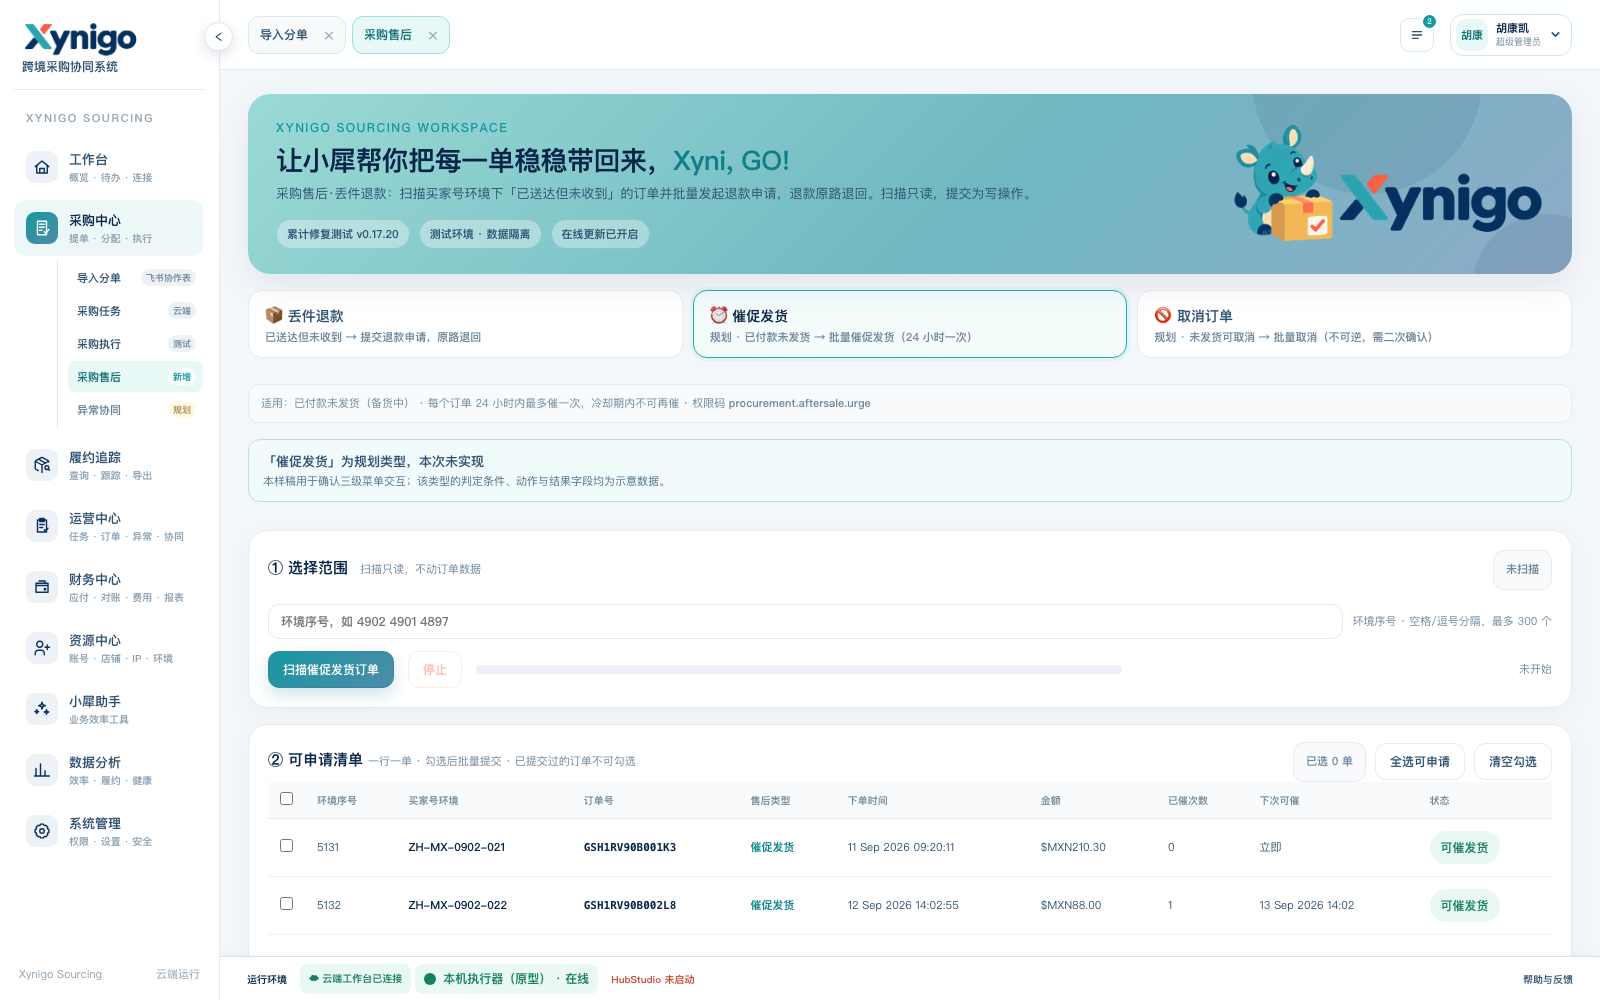
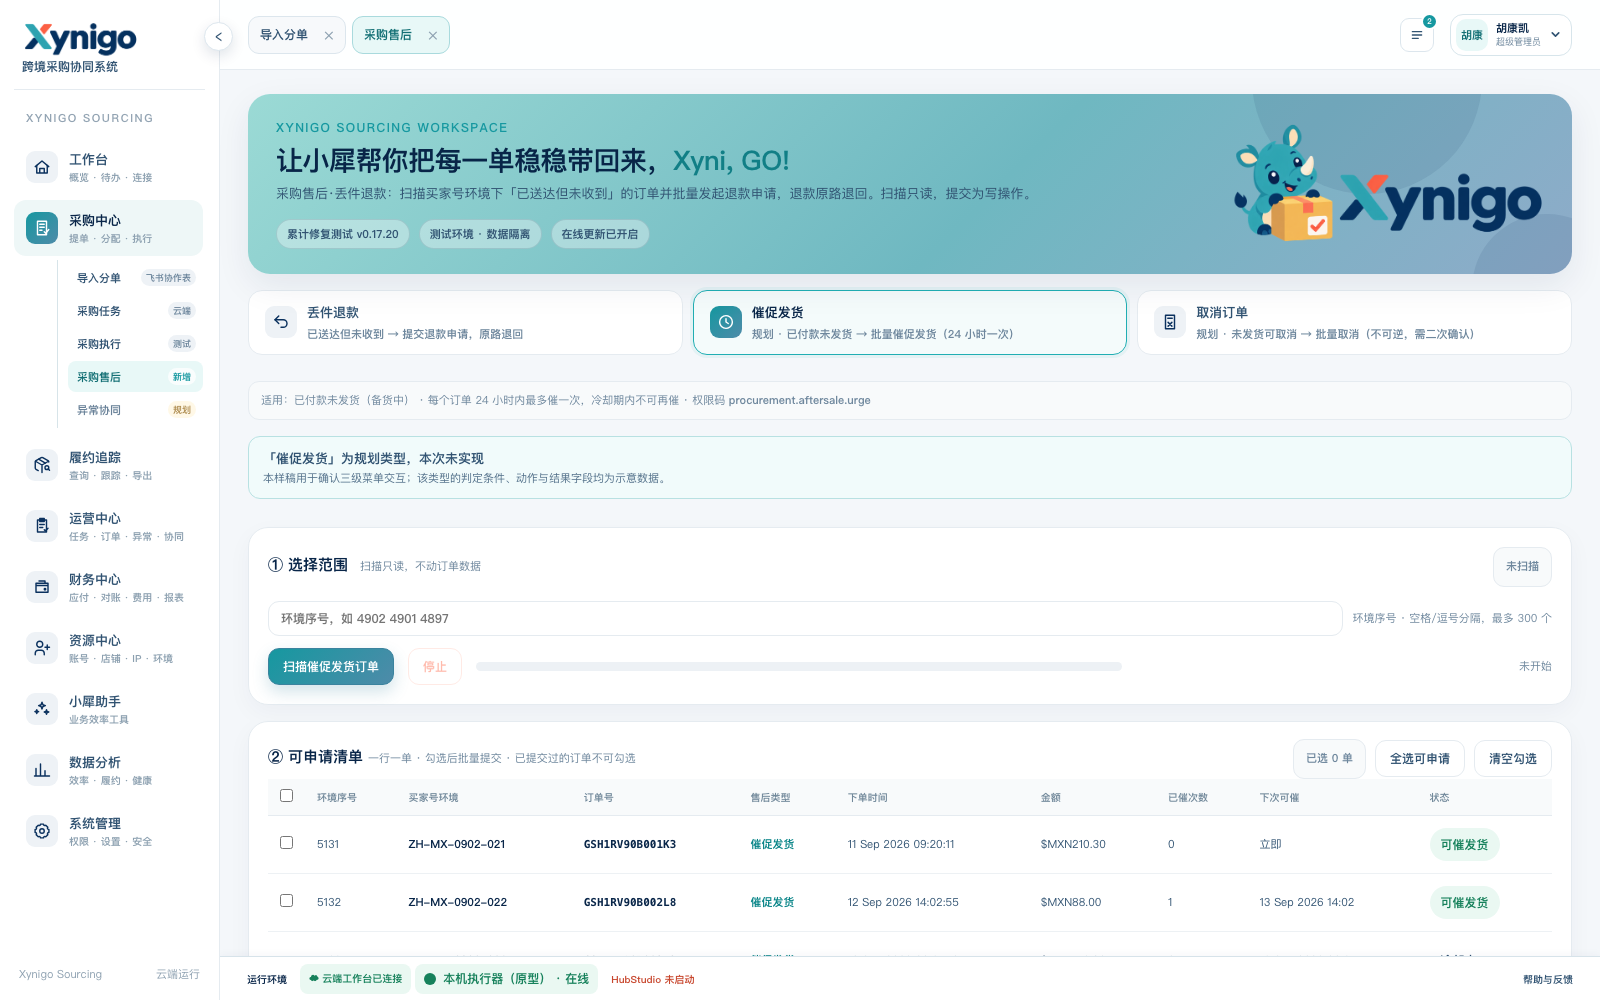
docs: 类型卡图标改用一级菜单同款线性图标
Jeff 反馈 emoji 图标太写实、与页面 UI 突兀。三个类型的图标改为：
- 丢件退款：退回箭头（↩）
- 催促发货：时钟（催＝赶时间）
- 取消订单：单据 + ×（与「采购中心」的单据 + ✓ 成对）

实现上不再自造图标样式，而是直接复用侧栏的 .nav-icon / .nav-text：32×32 圆角砖、
18px 描边 SVG（stroke 1.9、圆头圆角），选中态图标砖换渐变底、图标转白——与一级
菜单完全同规格。补丁只加两条作用域样式（卡片内一行布局 + 选中态图标砖渐变），
其余继承既有 class，不引入新配色。

样稿实测：三卡图标与文字对齐、选中态正确、切换后表格与按钮文案同步，控制台零报错。

diff --git a/docs/prototypes/20260915-procurement-after-sale-v2-multitype.html b/docs/prototypes/20260915-procurement-after-sale-v2-multitype.html
@@ -15772,7 +15772,9 @@ initializeAuth();
 (function () {
   const TYPES = [
     {
-      id: 'refund', label: '丢件退款', icon: '📦', state: 'done',
+      id: 'refund', label: '丢件退款', state: 'done',
+      // 图标与一级菜单同款：24×24 线性描边（退回箭头）
+      svg: '<path d="M9 14 4 9l5-5"/><path d="M4 9h11a5 5 0 0 1 0 10h-3"/>',
       desc: '已送达但未收到 → 提交退款申请，原路退回',
       perm: 'procurement.aftersale.refund',
       rule: '已送达但未收到',
@@ -15800,7 +15802,8 @@ initializeAuth();
       ],
     },
     {
-      id: 'urge', label: '催促发货', icon: '⏰', state: 'plan',
+      id: 'urge', label: '催促发货', state: 'plan',
+      svg: '<circle cx="12" cy="12" r="8.5"/><path d="M12 7.5V12l3 2"/>',
       desc: '已付款未发货 → 批量催促发货（24 小时一次）',
       perm: 'procurement.aftersale.urge',
       rule: '已付款未发货（备货中）',
@@ -15828,7 +15831,9 @@ initializeAuth();
       ],
     },
     {
-      id: 'cancel', label: '取消订单', icon: '🚫', state: 'plan',
+      id: 'cancel', label: '取消订单', state: 'plan',
+      // 与「采购中心」的单据图标成对：那边是单据+勾，这边是单据+叉
+      svg: '<path d="M6 3h12v18H6zM9 7h6"/><path d="m9.5 12.5 5 5m0-5-5 5"/>',
       desc: '未发货可取消 → 批量取消（不可逆，需二次确认）',
       perm: 'procurement.aftersale.cancel',
       rule: '未发货且平台允许取消',
@@ -15856,6 +15861,12 @@ initializeAuth();
       ],
     },
   ];
+
+  // 只补两条：卡片内一行布局 + 选中态图标砖跟着变渐变（与 .module-tab.active 一致）
+  const style = document.createElement('style');
+  style.textContent = '#asTypeBar .as-mode-inner{display:flex;align-items:center;gap:10px}'
+    + '#asTypeBar .mode-tab.active .nav-icon{color:#fff;background:var(--action-gradient)}';
+  document.head.appendChild(style);
 
   const esc = window.esc || (s => String(s == null ? '' : s)
     .replace(/[&<>"]/g, c => ({ '&': '&amp;', '<': '&lt;', '>': '&gt;', '"': '&quot;' }[c])));
@@ -15885,8 +15896,12 @@ initializeAuth();
     if (legacyRow) legacyRow.style.display = 'none';
     bar.innerHTML = TYPES.map(t =>
       `<button class="mode-tab${t.id === current ? ' active' : ''}" data-as-type="${t.id}" type="button">`
-      + `${t.icon} ${esc(t.label)}`
-      + `<small>${t.state === 'plan' ? '规划 · ' : ''}${esc(t.desc)}</small></button>`).join('');
+      + '<span class="as-mode-inner">'
+      + `<span class="nav-icon" aria-hidden="true"><svg viewBox="0 0 24 24">${t.svg}</svg></span>`
+      + '<span class="nav-text">'
+      + `<b>${esc(t.label)}</b>`
+      + `<small>${t.state === 'plan' ? '规划 · ' : ''}${esc(t.desc)}</small>`
+      + '</span></span></button>').join('');
     bar.querySelectorAll('[data-as-type]').forEach(btn => {
       btn.onclick = () => switchType(btn.dataset.asType);
     });

diff --git a/docs/prototypes/build_procurement_after_sale_multitype_prototype.py b/docs/prototypes/build_procurement_after_sale_multitype_prototype.py
@@ -45,7 +45,9 @@ DESIGN_PATCH = r'''
 (function () {
   const TYPES = [
     {
-      id: 'refund', label: '丢件退款', icon: '📦', state: 'done',
+      id: 'refund', label: '丢件退款', state: 'done',
+      // 图标与一级菜单同款：24×24 线性描边（退回箭头）
+      svg: '<path d="M9 14 4 9l5-5"/><path d="M4 9h11a5 5 0 0 1 0 10h-3"/>',
       desc: '已送达但未收到 → 提交退款申请，原路退回',
       perm: 'procurement.aftersale.refund',
       rule: '已送达但未收到',
@@ -73,7 +75,8 @@ DESIGN_PATCH = r'''
       ],
     },
     {
-      id: 'urge', label: '催促发货', icon: '⏰', state: 'plan',
+      id: 'urge', label: '催促发货', state: 'plan',
+      svg: '<circle cx="12" cy="12" r="8.5"/><path d="M12 7.5V12l3 2"/>',
       desc: '已付款未发货 → 批量催促发货（24 小时一次）',
       perm: 'procurement.aftersale.urge',
       rule: '已付款未发货（备货中）',
@@ -101,7 +104,9 @@ DESIGN_PATCH = r'''
       ],
     },
     {
-      id: 'cancel', label: '取消订单', icon: '🚫', state: 'plan',
+      id: 'cancel', label: '取消订单', state: 'plan',
+      // 与「采购中心」的单据图标成对：那边是单据+勾，这边是单据+叉
+      svg: '<path d="M6 3h12v18H6zM9 7h6"/><path d="m9.5 12.5 5 5m0-5-5 5"/>',
       desc: '未发货可取消 → 批量取消（不可逆，需二次确认）',
       perm: 'procurement.aftersale.cancel',
       rule: '未发货且平台允许取消',
@@ -129,6 +134,12 @@ DESIGN_PATCH = r'''
       ],
     },
   ];
+
+  // 只补两条：卡片内一行布局 + 选中态图标砖跟着变渐变（与 .module-tab.active 一致）
+  const style = document.createElement('style');
+  style.textContent = '#asTypeBar .as-mode-inner{display:flex;align-items:center;gap:10px}'
+    + '#asTypeBar .mode-tab.active .nav-icon{color:#fff;background:var(--action-gradient)}';
+  document.head.appendChild(style);
 
   const esc = window.esc || (s => String(s == null ? '' : s)
     .replace(/[&<>"]/g, c => ({ '&': '&amp;', '<': '&lt;', '>': '&gt;', '"': '&quot;' }[c])));
@@ -158,8 +169,12 @@ DESIGN_PATCH = r'''
     if (legacyRow) legacyRow.style.display = 'none';
     bar.innerHTML = TYPES.map(t =>
       `<button class="mode-tab${t.id === current ? ' active' : ''}" data-as-type="${t.id}" type="button">`
-      + `${t.icon} ${esc(t.label)}`
-      + `<small>${t.state === 'plan' ? '规划 · ' : ''}${esc(t.desc)}</small></button>`).join('');
+      + '<span class="as-mode-inner">'
+      + `<span class="nav-icon" aria-hidden="true"><svg viewBox="0 0 24 24">${t.svg}</svg></span>`
+      + '<span class="nav-text">'
+      + `<b>${esc(t.label)}</b>`
+      + `<small>${t.state === 'plan' ? '规划 · ' : ''}${esc(t.desc)}</small>`
+      + '</span></span></button>').join('');
     bar.querySelectorAll('[data-as-type]').forEach(btn => {
       btn.onclick = () => switchType(btn.dataset.asType);
     });

diff --git a/docs/prototypes/20260915-procurement-after-sale-v2-multitype.md b/docs/prototypes/20260915-procurement-after-sale-v2-multitype.md
@@ -28,10 +28,11 @@ python3 -m http.server 8899 --directory docs/prototypes
 | 结果字段 | 退款单号、退款路径 | 催发时间、下次可催 | 取消结果、退款金额 |
 | 幂等 | 平台天然幂等 | **要自己记「今天催过没有」** | 平台天然幂等 |
 | 风险 | 中 | 低 | **高** |
+| 图标语义 | 退回箭头 | 时钟（催＝赶时间） | 单据 + ×（与「采购中心」的单据 + ✓ 成对） |
 
 ## 三级菜单形态：选择范围上方的卡片式类型选择器（Jeff 拍板）
 
-不改二级页签结构（导入分单 / 采购任务 / 采购执行 / 采购售后 / 异常协同 保持不变）；类型选择做成**卡片式选择器，放在「① 选择范围」上方**，形态直接复用「资源中心 › 环境创建」的类型卡（工作台既有 `.mode-bar` / `.mode-tab` class：图标 + 四字类型名 + 一行说明，选中态有青色描边与光晕）。切换类型即换清单列、结果列与动作文案；下方紧跟一行该类型的「适用条件 · 权限码」。页签栏不膨胀，一次只做一种类型。
+不改二级页签结构（导入分单 / 采购任务 / 采购执行 / 采购售后 / 异常协同 保持不变）；类型选择做成**卡片式选择器，放在「① 选择范围」上方**，形态直接复用「资源中心 › 环境创建」的类型卡（工作台既有 `.mode-bar` / `.mode-tab` class，选中态有青色描边与光晕）；卡片左侧图标不用 emoji，改用**一级菜单同款的线性图标**——直接复用侧栏的 `.nav-icon` / `.nav-text`：32×32 圆角砖 + 18px 描边 SVG（stroke 1.9、圆头圆角），选中时图标砖与侧栏一致换成渐变底、图标转白。切换类型即换清单列、结果列与动作文案；下方紧跟一行该类型的「适用条件 · 权限码」。页签栏不膨胀，一次只做一种类型。
 
 样稿里可直接体验到的差异：
 
@@ -58,7 +59,7 @@ python3 -m http.server 8899 --directory docs/prototypes
 
 ## 这份样稿的技术做法
 
-与主原型一致——逐字复制真实工作台页面，注入数据 mock 后，再叠一层设计补丁（`build_procurement_after_sale_multitype_prototype.py`）。补丁只做三件事：把类型选择做成选择范围上方的卡片式 `.mode-bar`（与 环境创建 同款）、按类型切换两张表的列与说明、给高危类型演示二次确认弹层。所有元素复用工作台既有 class（`.mode-bar` / `.mode-tab` / `.modal-mask` / `.modal` / `.pill` / `.card`），不引入新配色。数据全部为合成数据。
+与主原型一致——逐字复制真实工作台页面，注入数据 mock 后，再叠一层设计补丁（`build_procurement_after_sale_multitype_prototype.py`）。补丁只做三件事：把类型选择做成选择范围上方的卡片式 `.mode-bar`（与 环境创建 同款）、按类型切换两张表的列与说明、给高危类型演示二次确认弹层。所有元素复用工作台既有 class（`.mode-bar` / `.mode-tab` / `.nav-icon` / `.nav-text` / `.modal-mask` / `.modal` / `.pill` / `.card`），不引入新配色；补丁只额外加了两条作用域样式（卡片内一行布局、选中态图标砖换渐变），其余全部继承。类型图标为 24×24 viewBox 的描边路径，与一级菜单图标同规格。数据全部为合成数据。
 
 ## 与当前实现的关系
 
